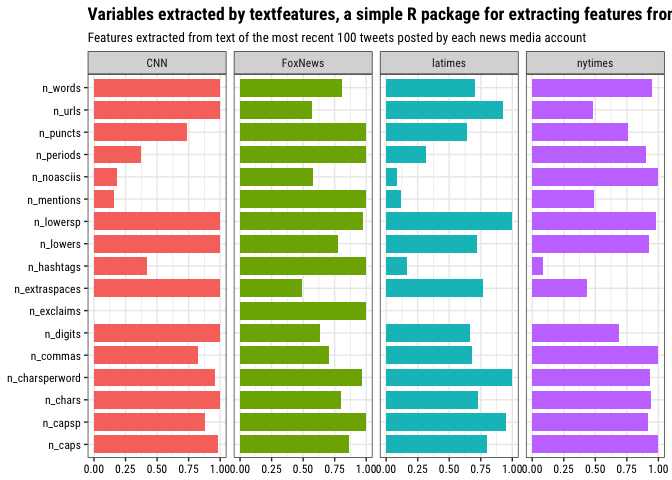
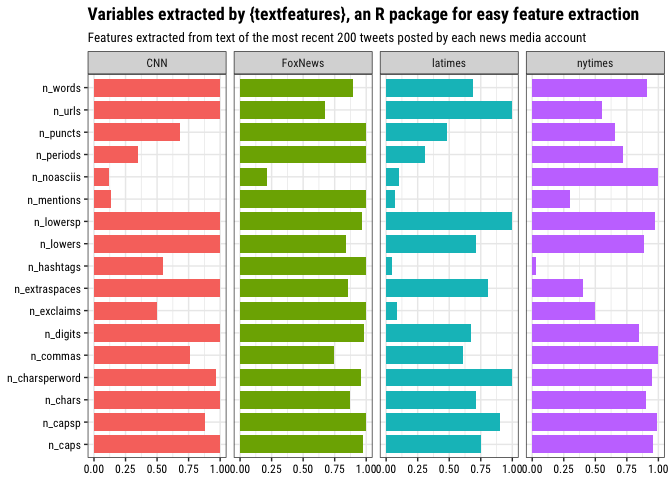
fixed readme plot

diff --git a/README.md b/README.md
@@ -56,16 +56,16 @@ textfeatures(rt)
     ## # A tibble: 100 x 17
     ##    n_chars n_commas n_digits n_exclaims n_extraspaces n_hashtags n_lowers
     ##      <int>    <int>    <int>      <int>         <int>      <int>    <int>
-    ##  1      36        0        0          0             2          2       34
-    ##  2      64        0        0          1             2          2       50
-    ##  3     108        1        1          0             2          0       94
-    ##  4      37        0        4          0             2          2       25
-    ##  5      73        1        4          0             2          1       54
-    ##  6     108        1        1          0             2          0       94
-    ##  7     111        0        0          0             1          0       91
-    ##  8     108        1        1          0             2          0       94
-    ##  9      74        0        1          0             2          1       57
-    ## 10      47        0        0          0             2          3       38
+    ##  1      94        1        0          0             1          0       84
+    ##  2      36        0        0          0             2          2       34
+    ##  3      64        0        0          1             2          2       50
+    ##  4     108        1        1          0             2          0       94
+    ##  5      37        0        4          0             2          2       25
+    ##  6      73        1        4          0             2          1       54
+    ##  7     108        1        1          0             2          0       94
+    ##  8     111        0        0          0             1          0       91
+    ##  9     108        1        1          0             2          0       94
+    ## 10      74        0        1          0             2          1       57
     ## # ... with 90 more rows, and 10 more variables: n_lowersp <dbl>,
     ## #   n_mentions <int>, n_periods <int>, n_urls <int>, n_words <int>,
     ## #   n_caps <int>, n_noasciis <int>, n_puncts <int>, n_capsp <dbl>,
@@ -74,9 +74,9 @@ textfeatures(rt)
 ### Input: `grouped_df`
 
 ``` r
-## data frame with up to one hundred tweets for each of 5 users
+## data frame with up to two hundred tweets for each of 5 users
 gdf <- rtweet::get_timelines(
-  c("wapo", "cnn", "nytimes", "foxnews", "latimes"), n = 100)
+  c("wapo", "cnn", "nytimes", "foxnews", "latimes"), n = 200)
 
 ## group by screen_name and return text features
 f <- textfeatures(dplyr::group_by(gdf, screen_name))
@@ -102,8 +102,8 @@ f %>%
     axis.text = element_text(colour = "black"),
     plot.title = element_text(face = "bold")) + 
   labs(y = NULL, x = NULL,
-    title = "Variables extracted by textfeatures, a simple R package for extracting features from text",
-    subtitle = "Features extracted from text of the most recent 100 tweets posted by each news media account")
+    title = "Variables extracted by {textfeatures}, an R package for easy feature extraction",
+    subtitle = "Features extracted from text of the most recent 200 tweets posted by each news media account")
 ```
 
 ![](README_files/figure-markdown_github/gdf-1.png)
